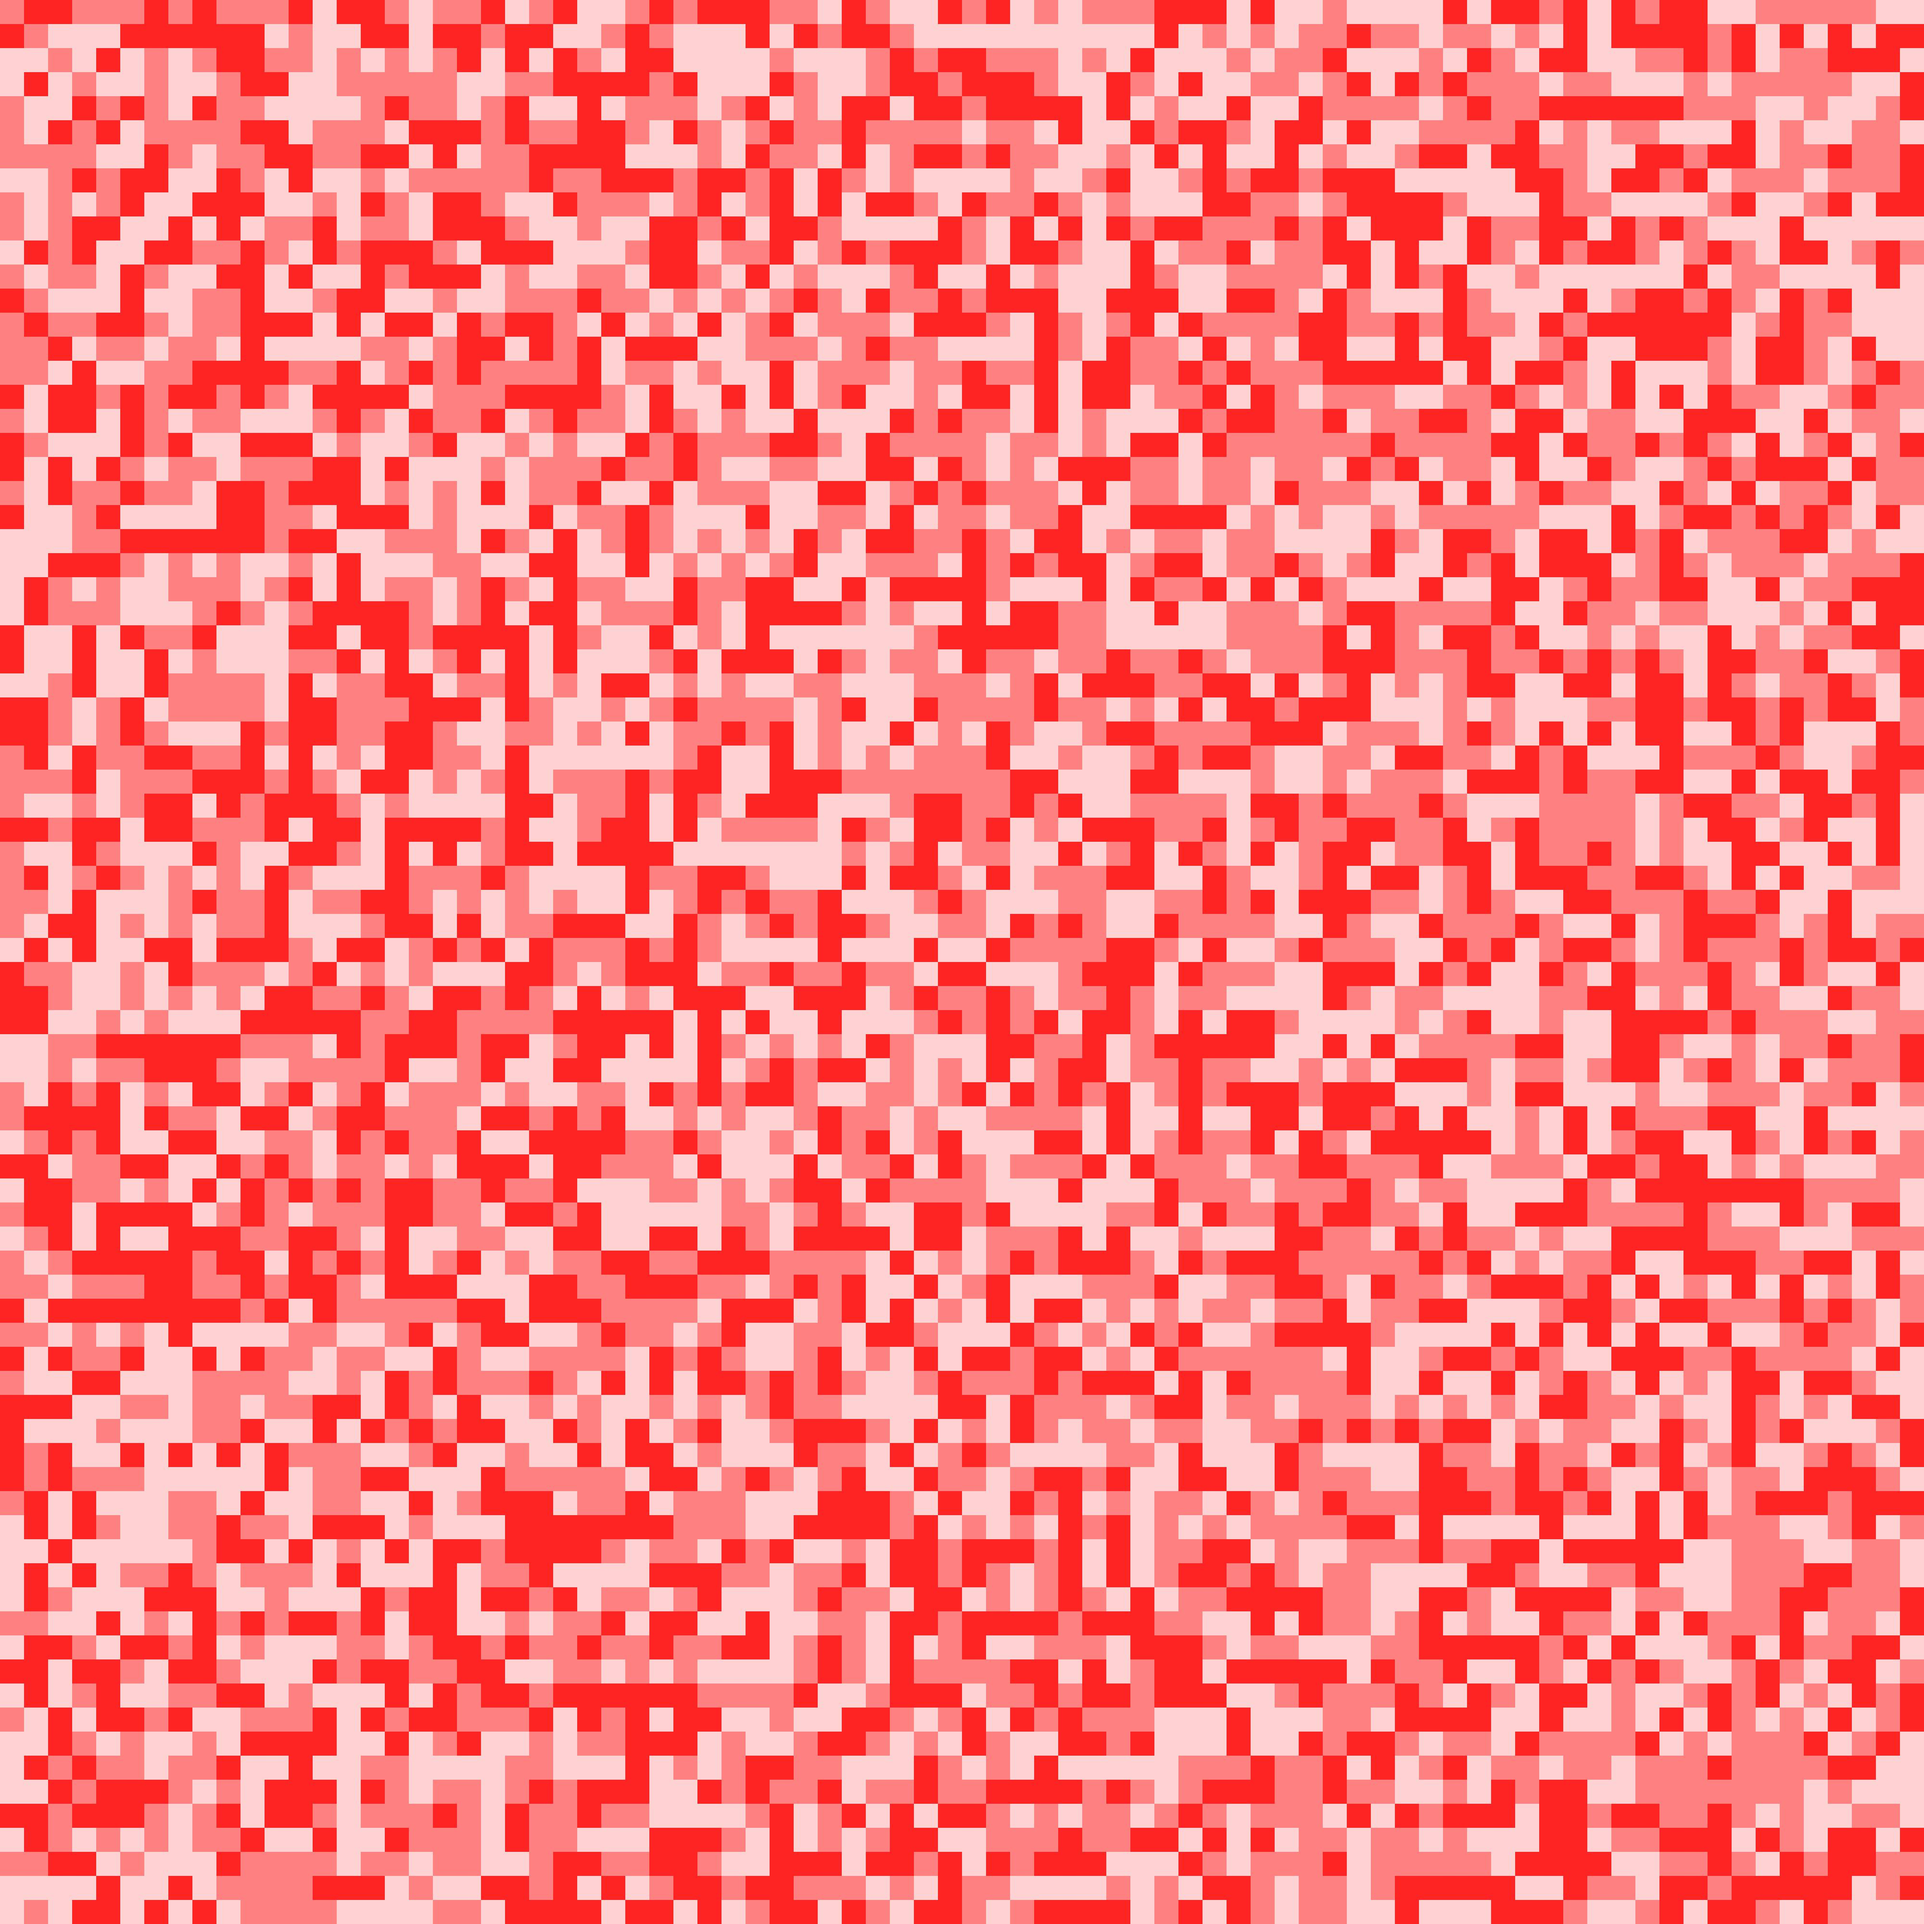
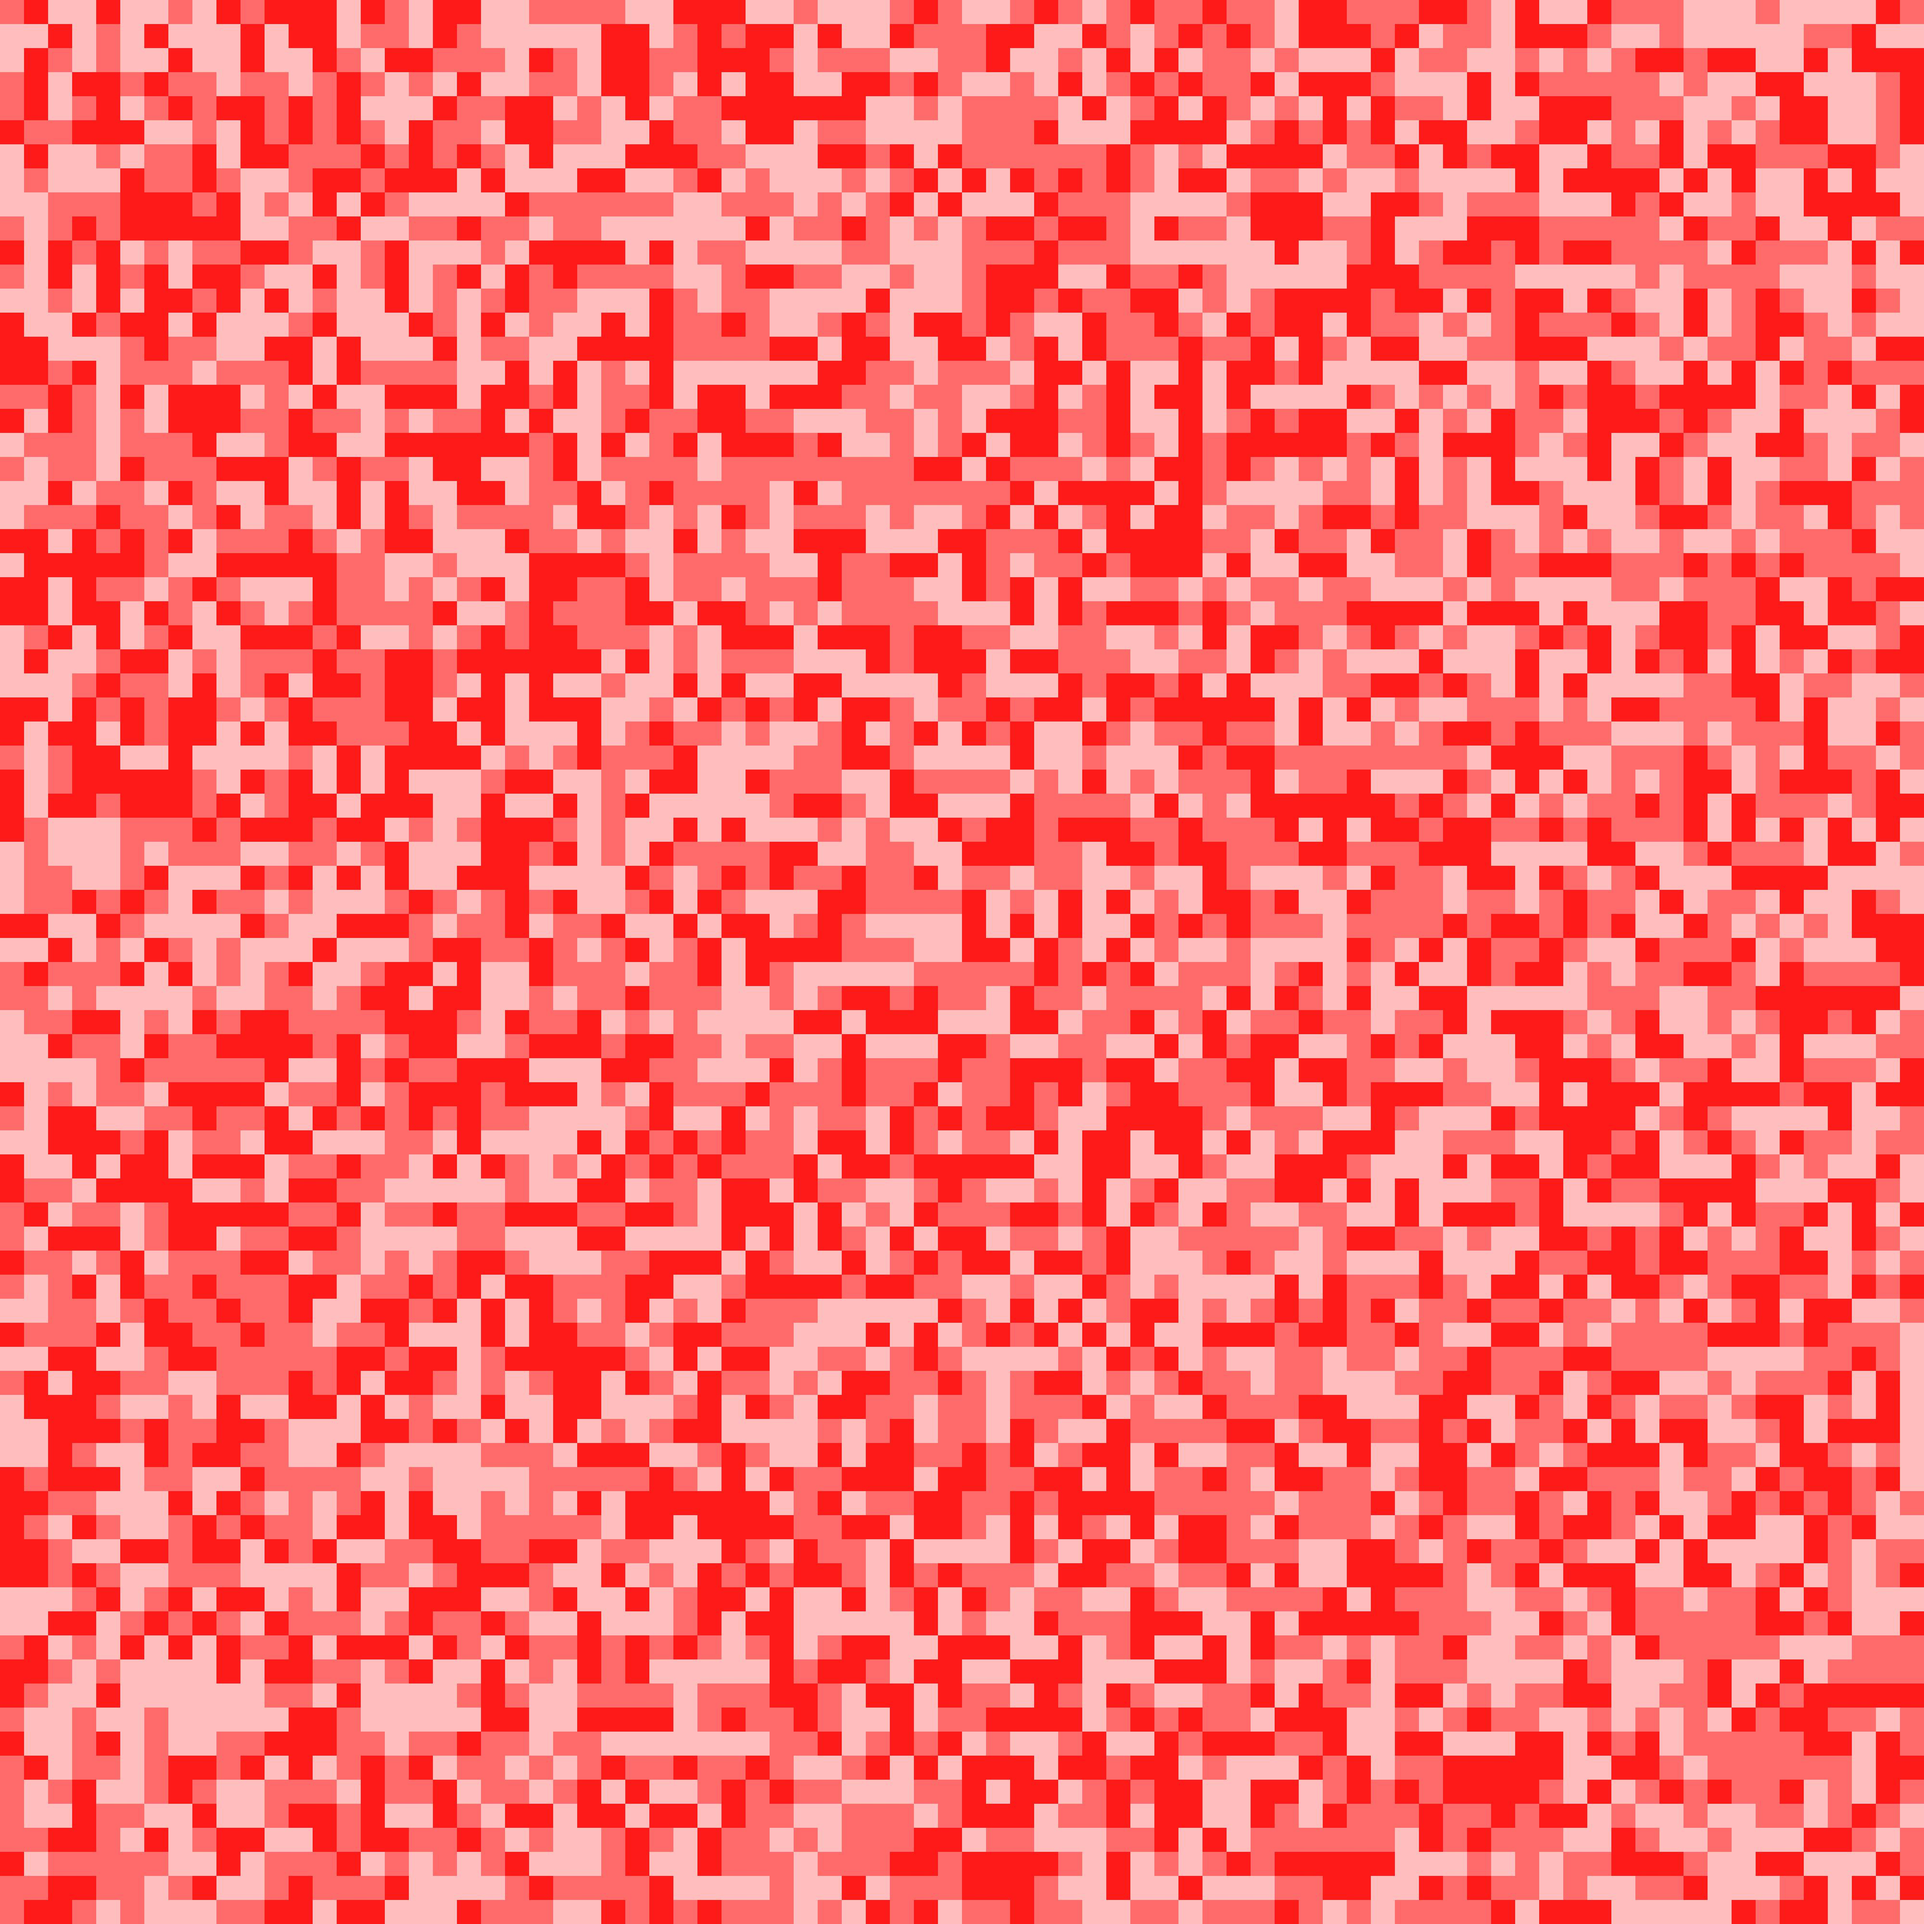
Added a new method to draw a dot in a square (45 rotate)

diff --git a/templates/result.html b/templates/result.html
@@ -36,7 +36,7 @@
         <div class="side_view">
             <img src="{{url_for('static', filename='image_crc_trn_in_rct.jpg')}}" onclick="change(this.src)">
             <img src="{{url_for('static', filename='image_half_crc_in_rct.jpg')}}" onclick="change(this.src)">
-            <img src="{{url_for('static', filename='')}}" onclick="change(this.src)">
+            <img src="{{url_for('static', filename='image_dot_in_rct_45.jpg')}}" onclick="change(this.src)">
             <img src="{{url_for('static', filename='')}}" onclick="change(this.src)">
             <img src="{{url_for('static', filename='')}}" onclick="change(this.src)">
         </div>

diff --git a/draw_dot_in_rectangle_45.py b/draw_dot_in_rectangle_45.py
@@ -1,0 +1,48 @@
+from PIL import Image, ImageDraw
+import random
+
+def draw_dot_in_rct_45(colors):
+    # background
+    width_bg = 4000
+    height_bg = 4200
+    im1 = Image.new(mode='RGB', size=(width_bg, height_bg), color='grey')
+
+    # pixel
+    width_pixel = 400
+    height_pixel = 400
+    pixel_color = colors
+    color_1 = random.choice(pixel_color)
+    pixel_color.remove(color_1)
+    color_2 = random.choice(pixel_color)
+
+    # count
+    width_count = width_bg // width_pixel
+    height_count = height_bg // height_pixel
+
+    if width_count >= height_count:
+        for i in range(height_count * 3):
+            for j in range(width_count * 3):
+                if i % 2 == 0:
+                    pixel_ = Image.new(mode='RGBA', size=(width_pixel, height_pixel), color=(0, 0, 0, 0))
+                    draw_ = ImageDraw.Draw(pixel_)
+                    draw_.regular_polygon(bounding_circle=(width_pixel // 2, height_pixel // 2, width_pixel // 2), n_sides=4, rotation=45, fill=color_1)
+                    draw_.ellipse((150, 150, 250, 250), fill=color_2)
+                    im1.paste(pixel_, (width_pixel * j - width_pixel // 2, height_pixel * i // 2), pixel_)
+                else:
+                    pixel_ = Image.new(mode='RGBA', size=(width_pixel, height_pixel), color=(0, 0, 0, 0))
+                    draw_ = ImageDraw.Draw(pixel_)
+                    draw_.regular_polygon(bounding_circle=(width_pixel // 2, height_pixel // 2, width_pixel // 2), n_sides=4, rotation=45, fill=color_2)
+                    draw_.ellipse((150, 150, 250, 250), fill=color_1)
+                    im1.paste(pixel_, (width_pixel * j, height_pixel * i // 2), pixel_)
+
+    else:
+        for i in range(width_count * 2):
+            for j in range(height_count * 2):
+                pixel_ = Image.new(mode='RGB', size=(width_pixel, height_pixel), color=(random.choice(pixel_color)))
+                draw_ = ImageDraw.Draw(pixel_)
+                draw_.regular_polygon(bounding_circle=(width_pixel // 2, height_pixel // 2, width_pixel // 2),
+                                      n_sides=3, fill=random.choice(pixel_color))
+                im1.paste(pixel_, (pixel_.size[0] // 2 * j, pixel_.size[1] // 2 * i))
+
+    im1_crop = im1.crop((0, 200, width_bg, height_bg))
+    im1_crop.save('static/image_dot_in_rct_45.jpg', format='JPEG')

diff --git a/view.py b/view.py
@@ -14,6 +14,7 @@ from draw_rectangle_in_rectangle import draw_image_rct_in_rct
 from draw_circle_wave import draw_image_circle_wave
 from draw_circle_triangle_in_rectangle import draw_image_crc_trn_in_rct
 from draw_half_circle_in_rectangle import draw_half_crc_in_rct
+from draw_dot_in_rectangle_45 import draw_dot_in_rct_45
 
 @app.route('/')
 def index():
@@ -56,6 +57,7 @@ def result_vert():
             draw_image_circle_wave(colors)
             draw_image_crc_trn_in_rct(colors)
             draw_half_crc_in_rct(colors)
+            draw_dot_in_rct_45(colors)
             return render_template('result.html')
         else:
             return render_template('index.html')
